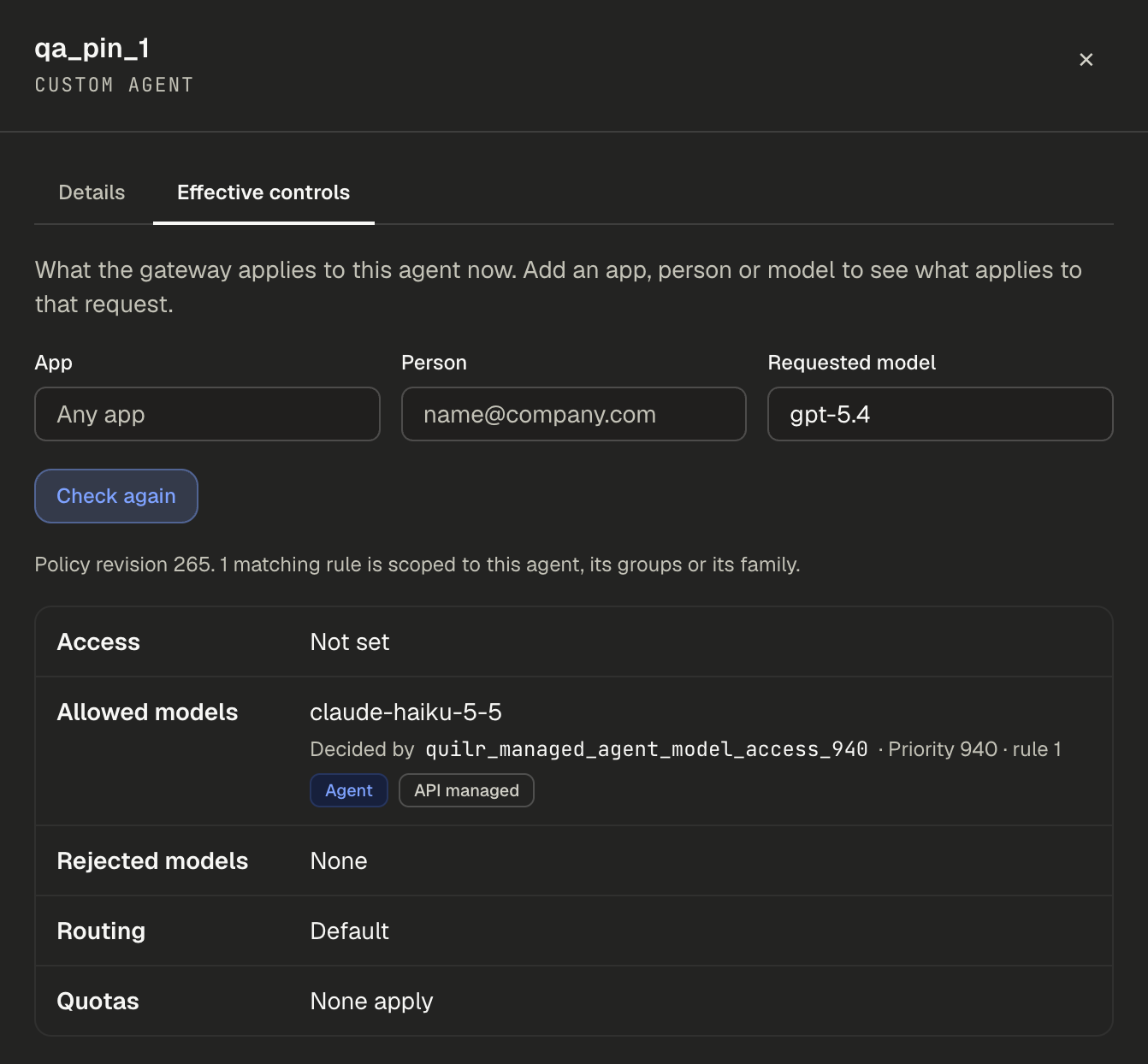
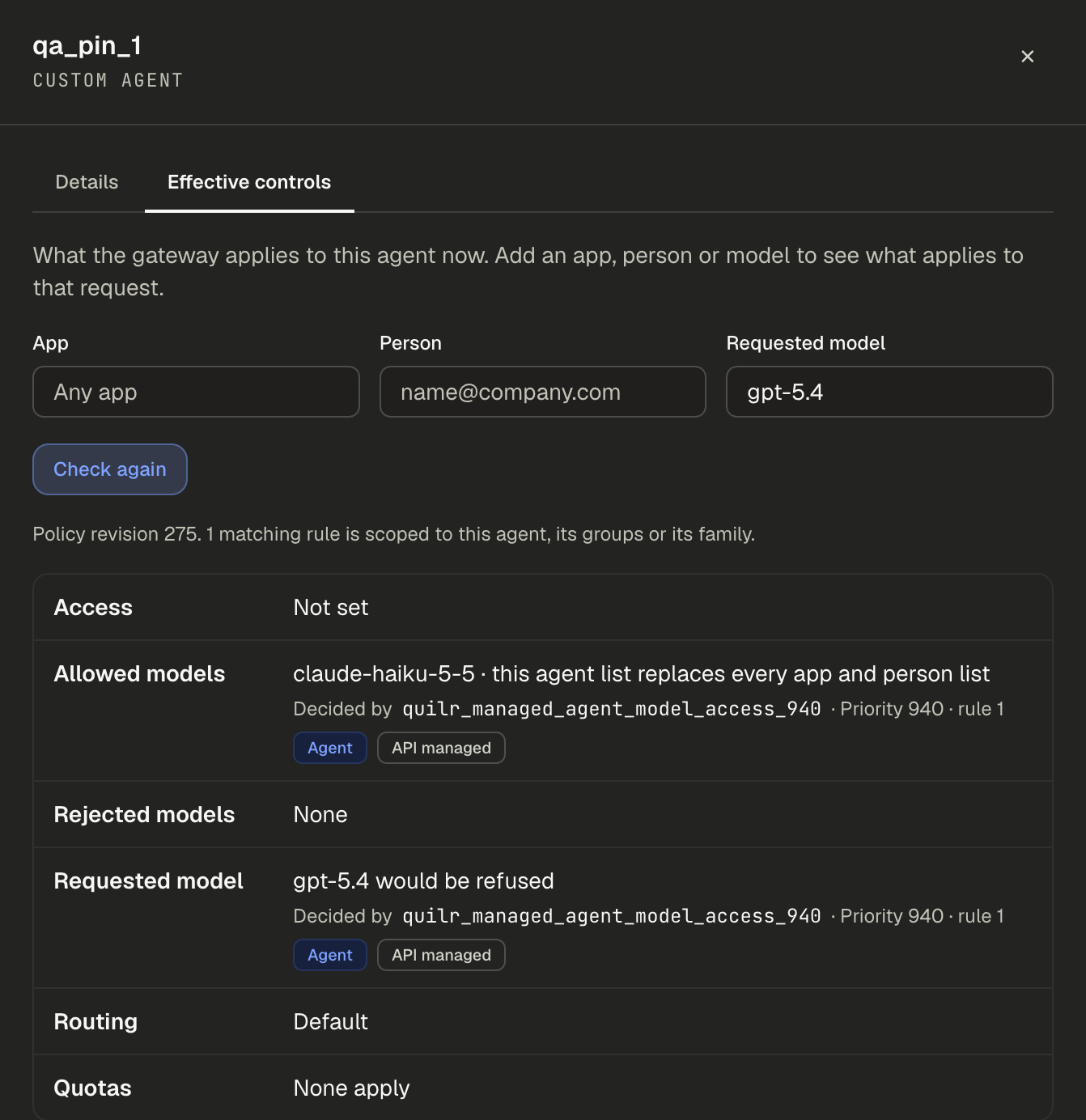
LLM Gateway docs: requested-model verdict, refuse without agent id, agent access allow
Effective controls now shows whether a requested model would be refused and
that an agent's model list replaces the others; the group-in-use delete lists
the referencing rules (live wording); per-agent budgets can refuse requests
without an agent id from the form. Access controls scoped to agents may set
block / require_* to false (macrodata-refinement #1032). Two screenshots
recaptured from the live console.

Claude-Session: https://claude.ai/code/session_015NGsXdRotLva84CeZFDUTF

diff --git a/docs/llm-gateway/protect/agents-and-coding-tools.md b/docs/llm-gateway/protect/agents-and-coding-tools.md
@@ -114,9 +114,9 @@ The **Effective controls** tab of an agent's drawer shows what the gateway appli
 
 ![Effective controls for the KYC Reviewer agent on onboarding-service: access allowed by an agent rule at priority 940, allowed and rejected models, a route and an agent-group quota decided at priority 930, and a per-person quota at priority 600](/img/llm-gateway/ui/agents-effective-controls.png)
 
-Each row names the rule that decided it, its priority and rule number. **Agent**, **Agent group** and **Agent family** tags mark rules scoped to the agent, one of its groups or its family; **API managed** marks controls set through the Management API. The check evaluates the live policy for a sample request: access, allowed and rejected models, routing and quotas. Data protection, Guardian and content routing depend on the prompt and are not shown.
+With a **Requested model**, a **Requested model** row says whether that model would be refused, for example "gpt-5.4 would be refused", and which rule decides it. When an agent's own model list applies, **Allowed models** notes that it replaces every app and person list. Each row names the rule that decided it, its priority and rule number. **Agent**, **Agent group** and **Agent family** tags mark rules scoped to the agent, one of its groups or its family; **API managed** marks controls set through the Management API. The check evaluates the live policy for a sample request: access, allowed and rejected models, routing and quotas. Data protection, Guardian and content routing depend on the prompt and are not shown.
 
-![Effective controls for qa_pin_1 with requested model gpt-5.4: the only allowed model is claude-haiku-5-5, decided by an agent model-access rule at priority 940](/img/llm-gateway/ui/agents-effective-model-allowlist.png)
+![Effective controls for qa_pin_1 with requested model gpt-5.4: the agent list claude-haiku-5-5 replaces every app and person list, and gpt-5.4 would be refused, both decided by an agent model-access rule at priority 940](/img/llm-gateway/ui/agents-effective-model-allowlist.png)
 
 ### Agent groups {#agent-groups}
 
@@ -161,9 +161,9 @@ Select **Create group** (**Save** when editing). To delete a group, open it and 
 
 ![Delete agent group confirmation dialog](/img/llm-gateway/ui/agents-group-delete-confirm.png)
 
-If a published rule, control or budget still names the group, the dialog lists them and asks again. **Delete anyway** deletes the group, and those rules then match no agent. Remove or change them first if they should keep applying.
+If a published rule, control or budget still names the group, the dialog lists them, for example **Budgets · Management API, rule 7**, and asks again. **Delete anyway** deletes the group, and those rules then match no agent. Remove or change them first if they should keep applying.
 
-![Delete agent group dialog warning that the group is still used by a policy rule, a Management API route and a budget, with Delete anyway](/img/llm-gateway/ui/agents-group-delete-in-use.png)
+![Delete agent group dialog warning that QA phase 2 bots is still used by Budgets · Management API, rule 7, with Delete anyway](/img/llm-gateway/ui/agents-group-delete-in-use.png)
 
 Limits: 200 groups per organization, 5,000 listed keys per group, 50 name and id patterns per group, and an agent counts in at most 64 groups.
 
@@ -222,7 +222,7 @@ The budget list shows how many agents each budget counted and which are closest 
 
 ![Budget QA p2, 2 requests per agent per day for each agent in QA phase 2 bots: 2 agents counted, 1 blocked, custom/qa_p2_a at its limit; and a 1 request per minute rate limit for custom/qa_rl_1](/img/llm-gateway/ui/agents-budget-usage.png)
 
-- Requests that name no agent are not counted by a per-agent budget. To refuse them instead, set `missing_id: refuse` on the quota in the technical source or the [Budgets API](../api-reference/budgets-api).
+- Requests that name no agent are not counted by a per-agent budget. To refuse them instead, tick **Refuse requests that have no agent id** under **Each agent**, or set `missing_id: refuse` on the quota in the technical source or the [Budgets API](../api-reference/budgets-api).
 - A refused request gets `429` `quota_exceeded`, with the budget's label in the message, for example "Request limit 'QA p2: 2 requests per agent per day' (rolling day) reached (2 requests)".
 - Agent ids come from the client, so a caller that sends a new id on every request starts a new allowance each time. Prefer **Each agent in a group** with a group of declared agents, and keep a shared budget on the app as a ceiling.
 

diff --git a/docs/llm-gateway/release-notes/ux-changelog.md b/docs/llm-gateway/release-notes/ux-changelog.md
@@ -35,9 +35,9 @@ Recent interface improvements and quality-of-life changes.
 - **Per-agent budgets**: **Who** offers **Agent group**, **Each agent in a group**, **Each agent** and **Each agent run**; the budget list shows agents counted and the ones closest to their limit
 - An agent's **Allowed Models** list replaces its app's and people's lists
 - Policy rules have an **Agent** field section (`agent.key`, `agent.groups`, `agent.family`, `agent.surface` and more) with values filled from your agents
-- **Effective controls** tab in the agent drawer: access, models, routing and quotas for an agent, with the rule that decided each
+- **Effective controls** tab in the agent drawer: access, models, routing and quotas for an agent, with the rule that decided each, and whether a requested model would be refused
 - Deleting an agent group that rules still use warns and lists them before **Delete anyway**
-- Management API: `/agents`, `/agents/_declare`, `/agent-groups`, `/agent-groups/{group_id}/members` and `/agent-families`, with the new `agents:write` scope (**Manage agents**); `POST /agents/{key}/effective`; `agents`, `agent_groups` and `agent_families` in every control scope and budget `applies_to`; `409 group_in_use` with `?force=true`
+- Management API: `/agents`, `/agents/_declare`, `/agent-groups`, `/agent-groups/{group_id}/members` and `/agent-families`, with the new `agents:write` scope (**Manage agents**); `POST /agents/{key}/effective`; `agents`, `agent_groups` and `agent_families` in every control scope and budget `applies_to`; `409 group_in_use` with `?force=true`; agent-scoped access controls may set `block: false` to let an agent through an app or person block
 - Details: [Agents and coding tools](../protect/agents-and-coding-tools) and [Agents API](../api-reference/agents-api)
 
 ## Self-service redesign (2026-11-18)
